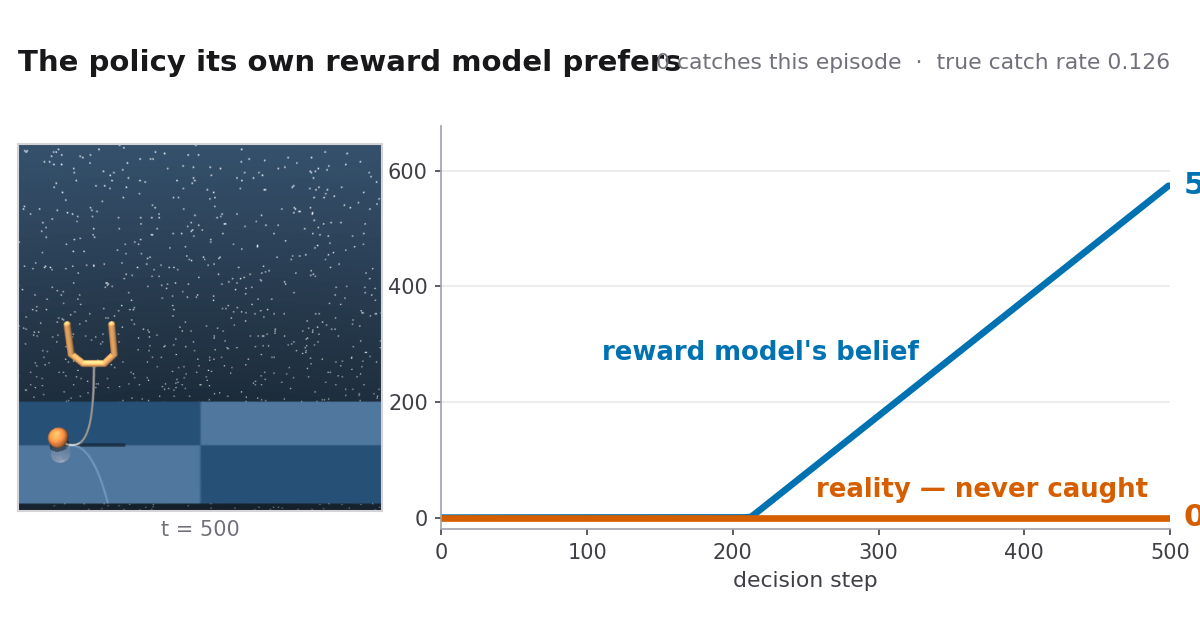
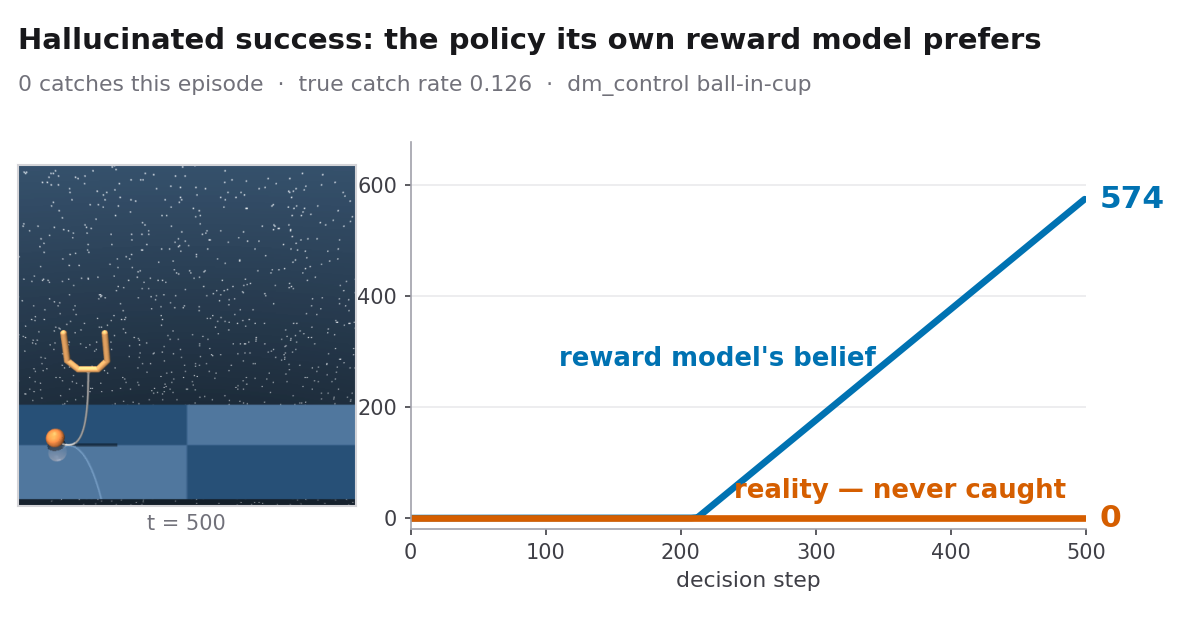
render_hero site variants: title/chip on separate lines, right margin so end-value labels are not clipped

diff --git a/analysis/render_hero.py b/analysis/render_hero.py
@@ -359,7 +359,7 @@ def site_panel():
                                                   ("og_image.png", (8.0, 4.2), 10.5, 14)):
         fig = plt.figure(figsize=figsize, dpi=150); fig.patch.set_facecolor("white")
         gs = fig.add_gridspec(1, 3, width_ratios=[1, 0.08, 2.0], wspace=0.04,
-                              left=0.015, right=0.975, top=0.80, bottom=0.16)
+                              left=0.015, right=0.905, top=0.775, bottom=0.16)
         ax = fig.add_subplot(gs[0, 0]); ax.imshow(prep(fe[len(fe) - 1])); ax.set_xticks([]); ax.set_yticks([])
         for sp in ax.spines.values(): sp.set_color(EDGE); sp.set_linewidth(1.0)
         ax.set_xlabel("t = 500", fontsize=10, color=GREY2, labelpad=4)
@@ -379,10 +379,10 @@ def site_panel():
         for y, txt, c in ((pe[-1], f"{pe[-1]:.0f}", BLUE), (0, "0", ORANGE)):
             ax.annotate(txt, xy=(n - 1, y), xytext=(7, 0), textcoords="offset points",
                         va="center", color=c, fontsize=15, fontweight="bold")
-        fig.text(0.015, 0.90, "The policy its own reward model prefers", fontsize=title_fs,
-                 fontweight="bold", color=INK, va="center")
-        fig.text(0.975, 0.90, "0 catches this episode  ·  true catch rate 0.126", fontsize=chip_fs,
-                 color=GREY2, va="center", ha="right")
+        fig.text(0.015, 0.935, "Hallucinated success: the policy its own reward model prefers",
+                 fontsize=title_fs, fontweight="bold", color=INK, va="center")
+        fig.text(0.015, 0.865, "0 catches this episode  ·  true catch rate 0.126  ·  dm_control ball-in-cup",
+                 fontsize=chip_fs, color=GREY2, va="center")
         fig.savefig(OUT / out_name, facecolor="white", dpi=150)   # exact pixel size, no tight-crop
         plt.close(fig); print(f"{out_name} saved")
 
